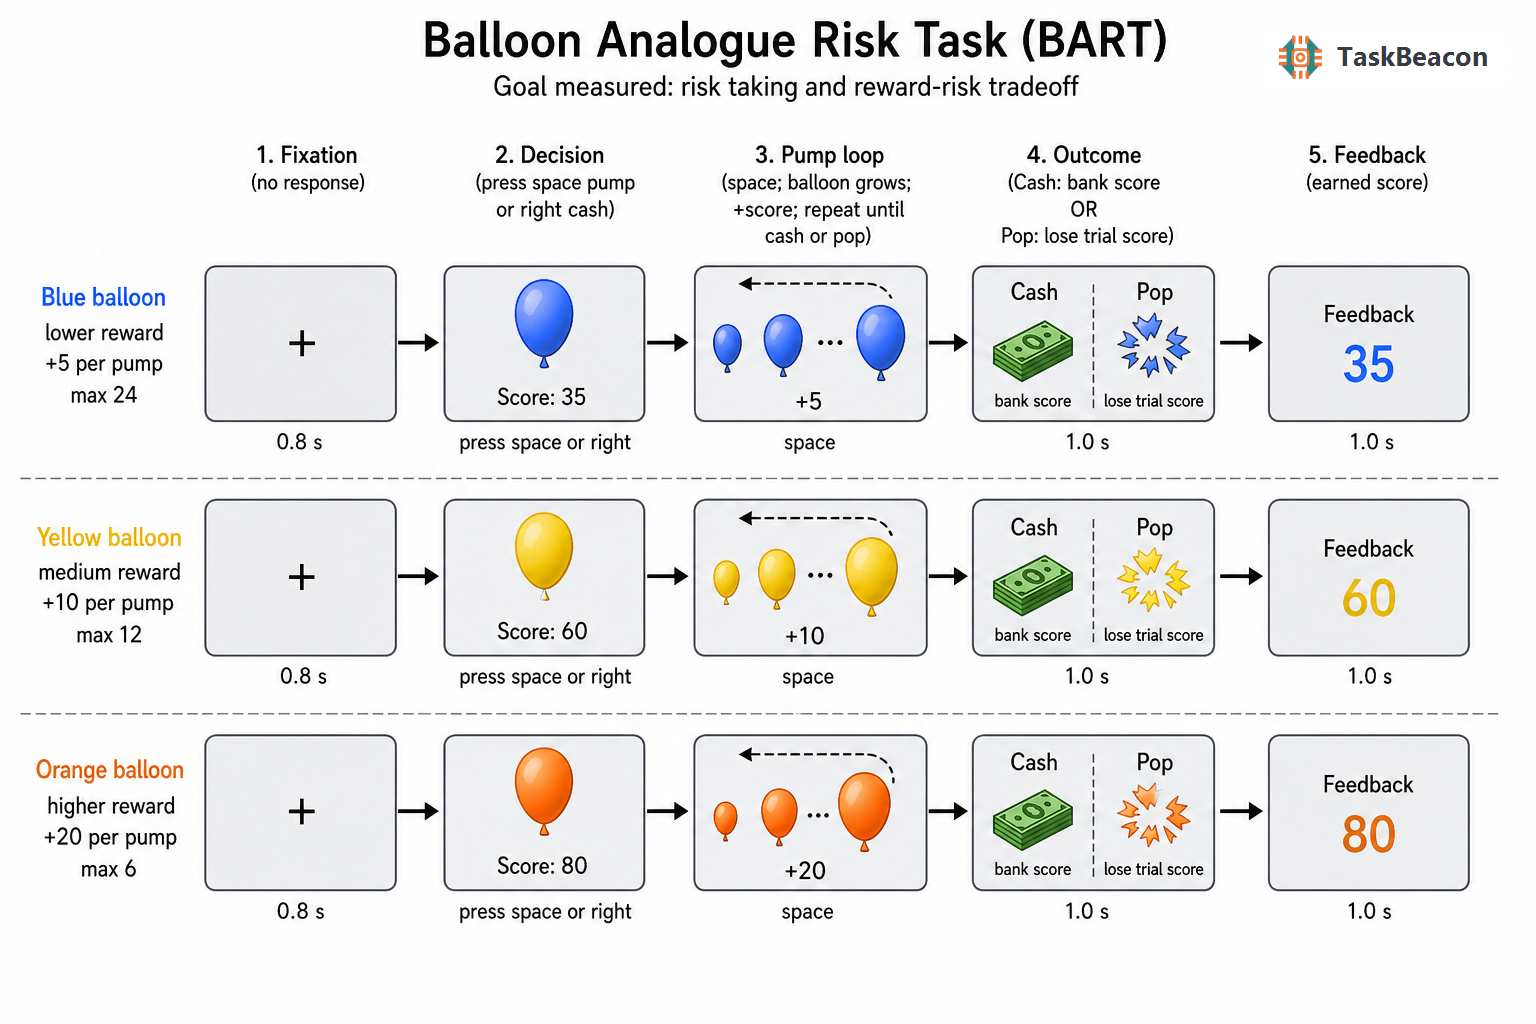
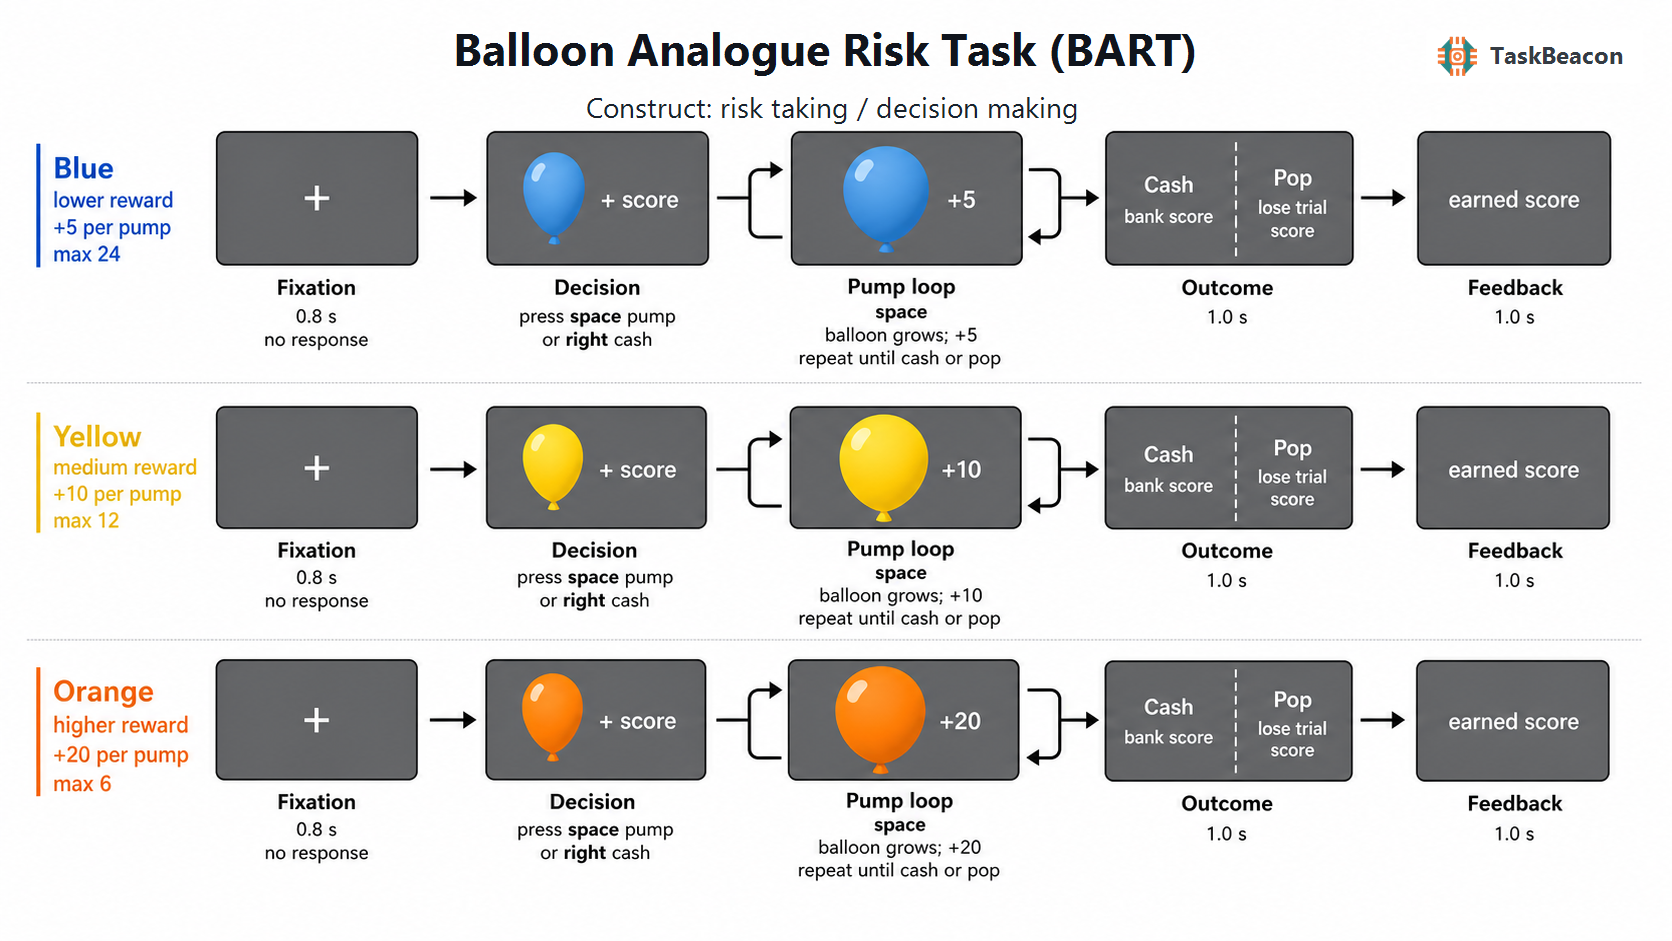
Update task flow diagram style

diff --git a/references/task_plot_brief.md b/references/task_plot_brief.md
@@ -1,37 +1,42 @@
 # Task Plot Brief
 
-Task: Balloon Analogue Risk Task (BART)
+## Evidence Sources
 
-Goal measured: risk taking and reward-risk tradeoff.
+- `README.md`
+- `main.py`
+- `config/config.yaml`
+- `src/run_trial.py`
+- `src/utils.py`
 
-Primary evidence:
-- `README.md`: task overview, flow, color conditions, and timing.
-- `config/config.yaml`: condition list, reward increments, max pumps, keys, timing, and stimuli.
-- `src/run_trial.py`: participant-visible trial sequence and branch logic.
+## Header
 
-Conditions:
-- Blue balloon: lower reward increment, `+5` per pump, maximum pump profile `24`.
-- Yellow balloon: medium reward increment, `+10` per pump, maximum pump profile `12`.
-- Orange balloon: higher reward increment, `+20` per pump, maximum pump profile `6`.
+- Title: Balloon Analogue Risk Task (BART)
+- Construct: risk taking / decision making
 
-Trial phases:
-- Fixation: `+`, 0.8 s.
-- Pump decision: colored balloon plus temporary score `+{score_bank}`. Participant can press `space` to pump or `right` to cash out.
-- Pump loop: each `space` pump increases temporary reward by the condition increment, grows the balloon, and repeats unless the explosion point is reached.
-- Pop outcome: if pump count reaches the sampled explosion point, show popped balloon and play pop sound for 1.0 s; temporary reward is lost.
-- Cash outcome: if participant presses `right`, show cash-out screen and play cash sound for 1.0 s; temporary reward is banked.
-- Timeout outcome: possible in QA/SIM profiles when timeout is enabled; not enabled for human config.
-- Trial feedback: show earned score for 1.0 s, `0` after pop/timeout or banked score after cash.
+## Participant-Visible Flow
 
-Participant-visible response rule:
-- Press `space` to pump and increase temporary reward.
-- Press `right` to cash out and bank the current temporary reward.
+- Three balloon colors are presented: blue, yellow, and orange.
+- Participant presses `space` to pump and `right` to cash out.
+- Each pump increases temporary reward and balloon size.
+- Pumping can lead to a pop outcome, which loses the temporary reward.
+- Cashing out banks the temporary reward.
+- Trial feedback shows earned score for the trial.
 
-Block context:
-- Human profile: 3 blocks, 10 trials per block, 30 trials total.
-- Conditions are blue, yellow, and orange balloons.
+## Rows
 
-Image simplification:
-- Use three timeline rows: Blue, Yellow, Orange.
-- Show a loop/branch structure for pump/cash/pop rather than drawing every repeated pump.
-- Omit timeout from the main row flow, but include a small QA-only note if space allows.
+- Blue balloon: `+5` per pump, max pump profile `24`.
+- Yellow balloon: `+10` per pump, max pump profile `12`.
+- Orange balloon: `+20` per pump, max pump profile `6`.
+
+## Timings
+
+- Fixation: 0.8 s.
+- Decision window: no practical timeout in human config; participant chooses pump or cash.
+- Cash or pop outcome: 1.0 s.
+- Feedback: 1.0 s.
+
+## Rendering Notes
+
+- Use three rows and a compact pump loop/branch, not every repeated pump.
+- The generated raw image must contain only timeline content below a blank header band.
+- The final title, `Construct: risk taking / decision making` subtitle, and TaskBeacon logo are added by post-processing.

diff --git a/references/task_plot_review.md b/references/task_plot_review.md
@@ -2,29 +2,25 @@
 
 Review checklist source: `E:/Taskbeacon/skills/task-plot/references/review_checklist.md`.
 
-Generated image:
-- `E:/Taskbeacon/T000002-bart/task_flow.png`
-
 ## Evidence Match
 
-- Pass: task is labeled as BART / Balloon Analogue Risk Task.
-- Pass: condition rows are present for Blue, Yellow, and Orange balloons.
-- Pass: condition parameters match config: Blue `+5` max 24, Yellow `+10` max 12, Orange `+20` max 6.
-- Pass: phase order matches `run_trial.py`: fixation, decision, pump loop, outcome, feedback.
-- Pass: response mapping is correct: `space` pumps, `right` cashes out.
-- Pass: outcome branch shows Cash versus Pop, matching the cash-out and explosion branches.
-- Pass: timing labels show 0.8 s fixation and 1.0 s outcome/feedback where relevant.
+- Pass: task name matches `Balloon Analogue Risk Task (BART)`.
+- Pass: rows match blue, yellow, and orange balloon conditions.
+- Pass: phase order matches `src/run_trial.py`: fixation, pump/cash decision loop, cash/pop outcome, feedback.
+- Pass: timing labels match config for fixation and outcome/feedback durations.
+- Pass: response mapping is correct: `space` pumps and `right` cashes out.
+- Pass: reward increments and max pump profiles are shown as +5/max 24, +10/max 12, and +20/max 6.
 
 ## Visual Quality
 
-- Pass: text is readable at normal preview size.
-- Pass: rows and arrows clearly show temporal order.
-- Pass: gray screen boxes, row separators, and restrained condition colors match the TaskBeacon figure style.
-- Pass: pump-loop arrows make repeated pumping clear without drawing every pump.
-- Pass: the image model did not generate its own logo, watermark, or brand text.
-- Pass: the fixed TaskBeacon logo lockup was applied in post-processing and appears borderless in the top-right corner without overlapping timeline content.
-- Pass: README embeds `![Task Flow](task_flow.png)` under `## 2. Task Flow`.
+- Pass: fixed title and `Construct: risk taking / decision making` subtitle are centered in the header.
+- Pass: fixed TaskBeacon logo lockup is borderless in the top-right corner and does not overlap content.
+- Pass: feedback avoids invented fixed score examples and uses `earned score`.
+- Pass: text is readable and no generated extra title, subtitle, logo, watermark, people, or devices are present.
+- Pass: `references/task_plot_timeline_raw.png` preserves the generated timeline before header/logo post-processing.
 
-## Decision
+## README Embed
 
-Accepted regenerated `task_flow.png` from the upgraded `task-plot` skill template and fixed logo overlay workflow. No further regeneration required.
+- Pass: `README.md` contains `## 2. Task Flow`.
+- Pass: the first image under `## 2. Task Flow` is exactly `![Task Flow](task_flow.png)`.
+- Pass: final image is saved at the task root as `task_flow.png`.

diff --git a/references/task_plot_prompt.md b/references/task_plot_prompt.md
@@ -3,7 +3,7 @@ Asset type: TaskBeacon task flow diagram
 Primary request: Create a clean, publication-ready task flow diagram as a timeline collection for the behavioral task described below.
 
 Task: Balloon Analogue Risk Task (BART)
-Goal measured: risk taking and reward-risk tradeoff
+Construct: risk taking / decision making
 Rows/conditions:
 - Blue balloon: lower reward, +5 per pump, max pump profile 24
 - Yellow balloon: medium reward, +10 per pump, max pump profile 12
@@ -26,15 +26,16 @@ Visual requirements:
 - Place condition labels at the left of each row.
 - Use short labels only; avoid paragraphs inside the image.
 - Make all text legible at normal document preview size.
-- Leave clean whitespace in the top-right corner for a fixed TaskBeacon logo lockup that will be added after generation.
+- Leave a clean blank header band across the top 15-18% of the image. This band is reserved for a fixed title, `Construct: ...` subtitle, and TaskBeacon logo lockup that will be added after generation.
 
 Accuracy constraints:
 - Do not invent phases, stimuli, condition names, keys, rewards, or timings.
 - Do not add people, lab equipment, decorative scenes, logos, or unrelated icons.
-- Do not draw any logo, watermark, brand mark, or `TaskBeacon` text inside the generated image.
+- Do not draw the task title, construct subtitle, any logo, watermark, brand mark, or `TaskBeacon` text inside the generated image.
+- Draw only the timeline content below the blank header band.
 - If a detail is unknown, omit it rather than guessing.
 - Preserve these exact terms where used: BART, Blue, Yellow, Orange, space, right, +5, +10, +20, max 24, max 12, max 6, 0.8 s, 1.0 s, Cash, Pop, Feedback.
 - Show `space` as pump and `right` as cash out.
 
 Style:
-TaskBeacon scientific infographic style: clean vector-like raster image, organized spacing, gray screen boxes, restrained color accents, and a blank top-right logo-safe area.
+TaskBeacon scientific infographic style: clean vector-like raster image, organized spacing, gray screen boxes, restrained color accents, and a blank header-safe area.